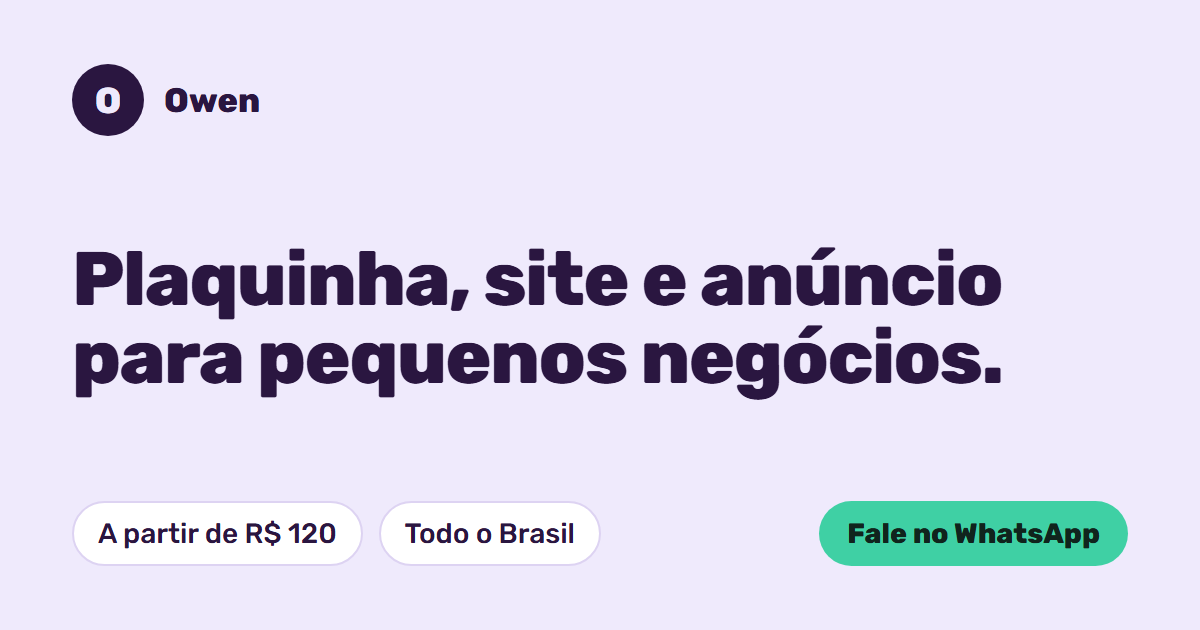
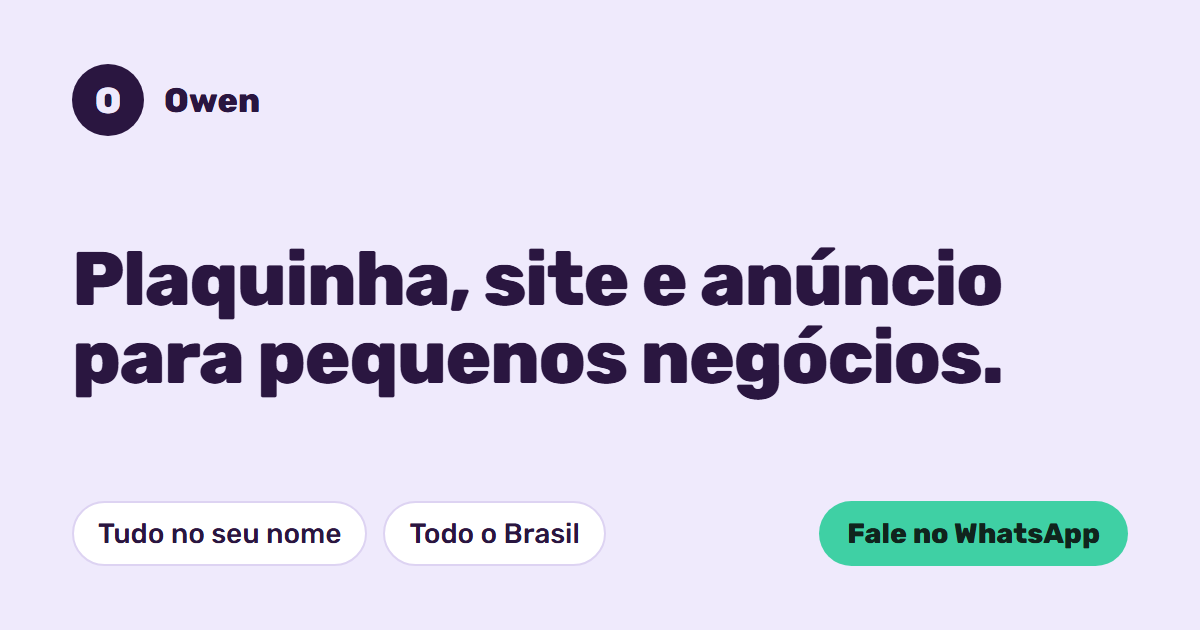
Tira os preços do site
Serviços aparecem sem valor; mensagens do WhatsApp, descrição,
dados para o Google e imagem de prévia também ficam sem preço.

Changed region(s): [[0.0617, 0.8143, 0.3083, 0.8746], [0.3392, 0.8143, 0.4933, 0.8746]]

diff --git a/index.html b/index.html
@@ -4,9 +4,9 @@
 <meta charset="utf-8">
 <meta name="viewport" content="width=device-width,initial-scale=1,viewport-fit=cover">
 <title>Owen · Plaquinha, site e anúncio para pequenos negócios</title>
-<meta name="description" content="Plaquinha de avaliação, landing page, site e anúncios para pequenos negócios de todo o Brasil. A partir de R$ 120. Fale com a Owen no WhatsApp.">
+<meta name="description" content="Plaquinha de avaliação, landing page, site e anúncios para pequenos negócios de todo o Brasil. Fale com a Owen no WhatsApp.">
 <meta property="og:title" content="Owen · Plaquinha, site e anúncio para pequenos negócios">
-<meta property="og:description" content="Plaquinha de avaliação R$ 120, landing R$ 120, site R$ 350 e anúncios. Tudo no seu nome, medido e mostrado no seu celular.">
+<meta property="og:description" content="Plaquinha de avaliação, landing page, site e anúncios. Tudo no seu nome, medido e mostrado no seu celular.">
 <meta property="og:locale" content="pt_BR">
 <meta property="og:site_name" content="Owen">
 <meta property="og:type" content="website">
@@ -17,7 +17,7 @@
 <meta name="twitter:card" content="summary_large_image">
 <meta name="theme-color" content="#2a1640">
 <link rel="icon" href="favicon.svg" type="image/svg+xml">
-<script type="application/ld+json">{"@context":"https://schema.org","@type":"ProfessionalService","name":"Owen","url":"https://andreyurima.github.io/owen-site/","image":"https://andreyurima.github.io/owen-site/og.png","telephone":"+55 11 92751-5032","priceRange":"R$ 120 – R$ 1.400","areaServed":{"@type":"Country","name":"Brasil"}}</script>
+<script type="application/ld+json">{"@context":"https://schema.org","@type":"ProfessionalService","name":"Owen","url":"https://andreyurima.github.io/owen-site/","image":"https://andreyurima.github.io/owen-site/og.png","telephone":"+55 11 92751-5032","areaServed":{"@type":"Country","name":"Brasil"}}</script>
 <link rel="preconnect" href="https://fonts.googleapis.com">
 <link rel="preconnect" href="https://fonts.gstatic.com" crossorigin>
 <link rel="stylesheet" href="https://fonts.googleapis.com/css2?family=Rubik:wght@400;500;700;800&display=swap">
@@ -37,7 +37,7 @@ h1{font:800 clamp(30px,7vw,46px)/1.05 var(--font);letter-spacing:-.02em;margin:2
 .chat{display:flex;flex-direction:column;gap:10px}
 .b{max-width:86%;padding:12px 16px;border-radius:18px;background:var(--panel);border:1px solid var(--line);box-shadow:0 2px 0 var(--line)}
 .b.them{border-bottom-left-radius:6px}
-.b .price{display:block;font:800 26px/1.1 var(--font);margin-top:6px}
+.b strong{display:block;font:800 22px/1.15 var(--font);margin-top:6px}
 .b ul{margin:6px 0 0;padding-left:18px}
 .chips{display:flex;flex-wrap:wrap;gap:8px;justify-content:flex-end;margin-top:4px}
 .chip{font:500 15px/1 var(--font);padding:12px 16px;border-radius:999px;border:2px solid var(--ink);background:transparent;color:var(--ink);cursor:pointer;text-decoration:none}
@@ -54,13 +54,12 @@ h2{font:800 24px/1.15 var(--font);letter-spacing:-.01em;margin:40px 0 12px}
 .steps{list-style:none;margin:0;padding:0;display:grid;gap:10px;counter-reset:s}
 .steps li{counter-increment:s;display:flex;gap:12px;align-items:flex-start;background:var(--panel);border:1px solid var(--line);border-radius:14px;padding:14px}
 .steps li::before{content:counter(s);flex:none;width:28px;height:28px;border-radius:50%;background:var(--ink);color:var(--bg);display:grid;place-items:center;font-weight:800;font-size:15px}
-.prices{display:grid;gap:10px}
+.services{display:grid;gap:10px}
 .card{background:var(--panel);border:1px solid var(--line);border-radius:14px;padding:16px}
-.card h3{margin:0;font:700 18px/1.2 var(--font)}
-.card .price{display:block;font:800 24px/1.1 var(--font);margin:4px 0 6px}
+.card h3{margin:0 0 6px;font:700 18px/1.2 var(--font)}
 .card ul{margin:0 0 12px;padding-left:18px;color:var(--muted)}
 .card .chip{display:inline-block;padding:10px 14px;font-size:14.5px}
-@media (min-width:600px){.prices{grid-template-columns:1fr 1fr}}
+@media (min-width:600px){.services{grid-template-columns:1fr 1fr}}
 footer{margin-top:30px;font-size:13.5px;color:var(--muted);text-align:center}
 footer a{color:inherit}
 @media (prefers-reduced-motion:no-preference){.b.new{animation:pop .25s ease-out}@keyframes pop{from{transform:translateY(6px)}to{transform:none}}}
@@ -71,7 +70,7 @@ footer a{color:inherit}
 <div class="head"><div class="av" aria-hidden="true">O</div><div><b>Owen</b><small><span class="dot"></span>Sites, plaquinhas e anúncios · todo o Brasil</small></div></div>
 <h1>Me conta o que você tem que eu te digo o que resolve.</h1>
 <p class="intro">Escolha uma opção. No fim, sua mensagem sai pronta para o WhatsApp da Owen.</p>
-<div class="chips" style="justify-content:flex-start;margin-bottom:18px"><a class="chip" href="#chat">Tenho um comércio</a><a class="chip" href="https://wa.me/5511927515032?text=Ol%C3%A1%2C%20Owen%21%20Quero%20crescer%20minha%20empresa%20e%20agendar%20o%20diagn%C3%B3stico%20de%20R%24%20150." target="_blank" rel="noopener">Quero crescer minha empresa</a></div>
+<div class="chips" style="justify-content:flex-start;margin-bottom:18px"><a class="chip" href="#chat">Tenho um comércio</a><a class="chip" href="https://wa.me/5511927515032?text=Ol%C3%A1%2C%20Owen%21%20Quero%20crescer%20minha%20empresa%20e%20agendar%20um%20diagn%C3%B3stico." target="_blank" rel="noopener">Quero crescer minha empresa</a></div>
 <div class="chat" id="chat" aria-live="polite">
   <div class="b them">Oi! Aqui é a Owen. Qual é o seu negócio?</div>
   <div class="chips" role="group" aria-label="Tipo de negócio" id="c1">
@@ -97,8 +96,8 @@ footer a{color:inherit}
   <li><span>A Owen responde, entende o seu negócio e combina os detalhes com você.</span></li>
   <li><span>A entrega é mostrada no seu celular, funcionando, com tudo no seu nome.</span></li>
 </ol>
-<h2 id="precos">Todos os preços</h2>
-<div class="prices" id="prices"></div>
+<h2 id="servicos">O que a Owen faz</h2>
+<div class="services" id="services"></div>
 <div class="trust">
   <div><i>✓</i><span>Domínio, hospedagem e contas de anúncio ficam no seu nome.</span></div>
   <div><i>✓</i><span>Entrega mostrada no seu celular, funcionando.</span></div>
@@ -109,19 +108,19 @@ footer a{color:inherit}
 <div class="bar"><div class="in"><div class="preview" id="pv"></div><a class="send" id="send" href="https://wa.me/5511927515032" target="_blank" rel="noopener">Enviar no WhatsApp</a></div></div>
 <script>
 const offers={
- aval:{t:'Plaquinha de avaliação',p:'R$ 120',d:['QR e chip NFC no seu balcão','Cliente encosta o celular e avalia no Google','Troca de destino sem reimprimir']},
- pag:{t:'Plaquinha + landing page',p:'R$ 200',d:['Página com até 5 seções, feita para o celular','Botão de WhatsApp em destaque','A plaquinha aponta para ela (só a landing: R$ 120)']},
- site:{t:'Site institucional',p:'R$ 350',d:['Até 6 páginas e Perfil da Empresa no Google','GA4 e Pixel ligados','Diagnóstico de antes e de depois']},
- midia:{t:'Redes + anúncios',p:'R$ 1.400/mês',d:['15 posts no mês','Gestão de tráfego pago, mais 5% sobre a verba','Verba a partir de R$ 1.500, paga por você na plataforma']},
- diag:{t:'Diagnóstico do negócio',p:'R$ 150',d:['A Owen olha seu Google, suas redes e seu site','Você sai sabendo o que fazer primeiro','Serve para quem ainda não sabe por onde começar']}};
+ aval:{t:'Plaquinha de avaliação',d:['QR e chip NFC no seu balcão','Cliente encosta o celular e avalia no Google','Troca de destino sem reimprimir']},
+ pag:{t:'Plaquinha + landing page',d:['Página com até 5 seções, feita para o celular','Botão de WhatsApp em destaque','A plaquinha aponta para ela']},
+ site:{t:'Site institucional',d:['Até 6 páginas e Perfil da Empresa no Google','GA4 e Pixel ligados','Diagnóstico de antes e de depois']},
+ midia:{t:'Redes + anúncios',d:['15 posts no mês','Gestão de tráfego pago','Verba paga por você, direto na plataforma']},
+ diag:{t:'Diagnóstico do negócio',d:['A Owen olha seu Google, suas redes e seu site','Você sai sabendo o que fazer primeiro','Serve para quem ainda não sabe por onde começar']}};
 let negocio='Loja ou comércio',obj='aval';
 const ans=document.getElementById('ans'),pv=document.getElementById('pv'),send=document.getElementById('send');
 const wa=m=>'https://wa.me/5511927515032?text='+encodeURIComponent(m);
-const prices=document.getElementById('prices');
-Object.values(offers).forEach(o=>{const c=document.createElement('div');c.className='card';const h=document.createElement('h3');h.textContent=o.t;const p=document.createElement('span');p.className='price';p.textContent=o.p;const ul=document.createElement('ul');o.d.forEach(x=>{const li=document.createElement('li');li.textContent=x;ul.appendChild(li)});const a=document.createElement('a');a.className='chip';a.target='_blank';a.rel='noopener';a.href=wa(`Olá, Owen! Quero saber mais sobre: ${o.t} (${o.p}).`);a.textContent='Quero este';c.append(h,p,ul,a);prices.appendChild(c)});
-function render(){const o=offers[obj];ans.innerHTML='';const s=document.createElement('span');s.textContent='Para '+negocio.toLowerCase()+', o caminho é: '+o.t+'.';const pr=document.createElement('span');pr.className='price';pr.textContent=o.p;const ul=document.createElement('ul');o.d.forEach(x=>{const li=document.createElement('li');li.textContent=x;ul.appendChild(li)});ans.append(s,pr,ul);
+const services=document.getElementById('services');
+Object.values(offers).forEach(o=>{const c=document.createElement('div');c.className='card';const h=document.createElement('h3');h.textContent=o.t;const ul=document.createElement('ul');o.d.forEach(x=>{const li=document.createElement('li');li.textContent=x;ul.appendChild(li)});const a=document.createElement('a');a.className='chip';a.target='_blank';a.rel='noopener';a.href=wa(`Olá, Owen! Quero saber mais sobre: ${o.t}.`);a.textContent='Quero este';c.append(h,ul,a);services.appendChild(c)});
+function render(){const o=offers[obj];ans.innerHTML='';const s=document.createElement('span');s.textContent='Para '+negocio.toLowerCase()+', o caminho é:';const pr=document.createElement('strong');pr.textContent=o.t;const ul=document.createElement('ul');o.d.forEach(x=>{const li=document.createElement('li');li.textContent=x;ul.appendChild(li)});ans.append(s,pr,ul);
  ans.classList.remove('new');void ans.offsetWidth;ans.classList.add('new');
- const msg=`Olá, Owen! Tenho ${negocio.toLowerCase()} e quero: ${o.t} (${o.p}).`;pv.textContent=msg;send.href=wa(msg);}
+ const msg=`Olá, Owen! Tenho ${negocio.toLowerCase()} e quero: ${o.t}.`;pv.textContent=msg;send.href=wa(msg);}
 function group(id,fn){const bs=[...document.querySelectorAll('#'+id+' .chip')];bs.forEach(b=>b.addEventListener('click',()=>{bs.forEach(x=>x.setAttribute('aria-pressed',x===b));fn(b);render();}));}
 group('c1',b=>negocio=b.dataset.v);group('c2',b=>obj=b.dataset.k);render();
 window.dataLayer=window.dataLayer||[];
